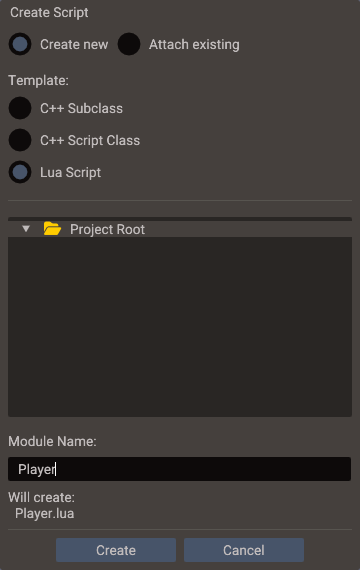
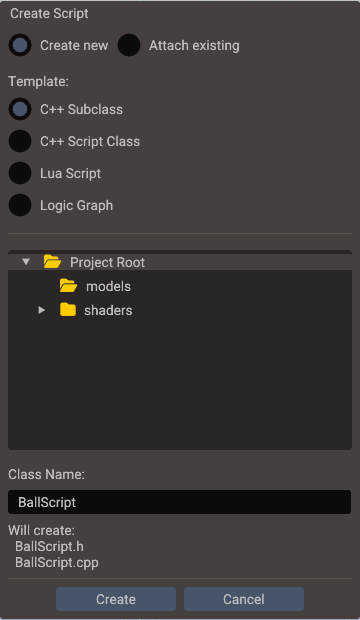
Docs follow the logic graph attach flow and review notes

diff --git a/docs/editor/logic-graphs.md b/docs/editor/logic-graphs.md
@@ -14,26 +14,27 @@ engine, Play and an export run the Lua, exactly as if it had been written by han
 
 ## Making one
 
-- On an entity, **New script** in [Properties](properties.md) with the **Logic Graph**
+- On an entity, **New Script** in [Properties](properties.md) with the **Logic Graph**
   template writes a graph, attaches it and opens it.
 - In [Resources](resources.md), **New** → **Logic Graph** writes one in the current
   folder. It starts with **On Start** and **On Update**.
 - An agent creates one with `edit_graph` and `create`, see [From agents](#from-agents).
 
 A graph lives inside the project's Lua directory. Its file name is the script's name, so
-it starts with a letter and has only letters, digits and `_`. A graph named as an engine
+it starts with a letter, has only letters, digits and `_`, and is not a word of Lua such
+as `end` or `local`. A graph named as an engine
 class, `Camera.logic`, is fine: its script's table is then `CameraScript`.
 
 ## Giving it to an entity
 
 A graph goes where a Lua script does:
 
-- **New script** → **Attach existing** → **Browse Script...** takes a `.logic`.
+- **New Script** → **Attach existing** → **Browse Script...** takes a `.logic`.
 - In a **Script** component, **+ Add Script** → **Logic Graph** asks for the file, and the
   **Source File** of a Lua script row takes a `.logic` too.
 
 The row's source button opens the graph, and its variables show below it as the script's
-properties.
+properties. Renaming or moving a graph in Resources carries the entities that use it.
 
 ## How a graph runs
 
@@ -71,7 +72,7 @@ properties.
 | Self | The script's entity, its scene, and the entity as an engine class such as `Mesh` |
 | Input | **Key**, the keyboard keys by name |
 | Utility | **Print**, **Lua Expression**, **Lua Code**, **Call Method** |
-| Engine | A category for each class of the [Lua API](../reference/index.md): a node for each method, and a **Get** and a **Set** for each property. Methods that only read, such as **Get World Position** or **Is Key Pressed**, are values; the others run |
+| Engine | A category for each class of the [Lua API](../reference/index.md): a node for each method, a **Get** for each property and a **Set** for the ones scripts can write. Methods that only read, such as **Get World Position** or **Is Key Pressed**, are values; the others run |
 | Enums | One node for each enum, with its value as a setting |
 
 Right click the canvas, or press **+ Node**, and type: the search matches every word in
@@ -108,9 +109,9 @@ The [MCP server](mcp-server.md) and the AI Chat use the graph tools of shader gr
 | --- | --- |
 | `list_graph_node_types` | With `graph_type` `script`, lists the graph's own nodes and the engine classes; `search` or a class as `category` returns their nodes in full |
 | `read_graph` | Reads a `.logic`: variables, nodes, links, whether it compiles and, with `include_code`, the Lua |
-| `edit_graph` | Changes it in one step, or creates it with `create`. Nodes added without a position are laid out, one row for each event. The result gives the path and class name `attach_script` takes: the graph itself |
+| `edit_graph` | Changes it in one step, or creates it with `create`. Nodes added without a position are laid out, one row for each event. The path of a new graph is inside the project's Lua directory. The result gives the path and class name `attach_script` takes, with type `lua`: the graph itself |
 
 ## Command line
 
-`doriax-editor logic <file.logic> --out <file.lua>` writes a graph's script to a file of
-your choice, and `doriax-editor logic-nodes` prints the node types as JSON.
+`doriax-editor logic <file.logic>` prints a graph's script, and `--out <file.lua>` writes
+it to a file of your choice, and `doriax-editor logic-nodes` prints the node types as JSON.

diff --git a/docs/manual/creating-scripts.md b/docs/manual/creating-scripts.md
@@ -40,31 +40,33 @@ exist and you only need a new entry pointing at them.
 1. Select an entity in the **Structure** panel.
 2. Click **New Script** at the top of the **Properties** window (next to
    **New component**).
-3. Choose **Lua Script**, **C++ Subclass**, or **C++ Script Class**.
+3. Choose **C++ Subclass**, **C++ Script Class**, **Lua Script** or **Logic Graph**.
 4. Enter a class/module name and confirm.
 
 The editor then does everything in one undoable step:
 
 - writes template files into your project (header + source for C++, a single `.lua`
-  module for Lua) with example properties and event registration already in place,
+  module for Lua, a `.logic` [logic graph](../editor/logic-graphs.md) that opens in the
+  graph window) with example properties and event registration already in place,
 - adds a `ScriptComponent` to the entity if it does not have one,
 - appends an enabled script entry linked to the new files.
 
 ![The Create Script dialog](../assets/screenshots/script-create-dialog.png)
 
 The same dialog's **Attach existing** option links a script that already exists: browse
-to the `.lua` file (or the C++ header and source) and click **Attach**. The files are
-not changed.
+to the `.lua` file, the `.logic` graph (or the C++ header and source) and click
+**Attach**. The files are not changed.
 
 ### Flow B — Add Script (links existing files)
 
 1. Select the entity and add `ScriptComponent` through **New component** (skip if it
    already has one).
-2. In the **ScriptComponent** section, click **Add Script**. This creates an *empty*
-   script entry — no files are written.
+2. In the **ScriptComponent** section, click **Add Script** and choose **Lua Script** or
+   **C++ Script**. This creates an *empty* script entry — no files are written.
+   **Logic Graph** asks for a `.logic` file at once and adds an entry that runs it.
 3. Click the pencil button on the new entry to open **Edit Script Details** and set the
-   class name, then pick the **Header File** and **Source File** (or the `.lua` file for
-   Lua scripts) from your project.
+   class name, then pick the **Header File** and **Source File** (or the `.lua` file, or a
+   `.logic` graph, for Lua scripts) from your project.
 
 Use this flow to reuse one script across many entities, or to wire up files you wrote
 outside the editor.
@@ -88,6 +90,7 @@ another. All edits are undoable.
 | Type | Enum value | Generated base | Best use |
 | --- | --- | --- | --- |
 | Lua Script | `SCRIPT_LUA` | Lua table module | Fast iteration, UI glue, triggers, controllers |
+| Logic Graph | `SCRIPT_LUA` | A [logic graph](../editor/logic-graphs.md), run as the Lua the editor writes from it | Behavior built from nodes, without writing code |
 | C++ Subclass | `SUBCLASS` | The wrapper class matching the entity (`Mesh`, `Camera`, `Terrain`, `Button`, …) | Behavior that calls wrapper methods like `getPosition()` |
 | C++ Script Class | `SCRIPT_CLASS` | `ScriptBase` | Logic that accesses scene/entity explicitly without a wrapper |
 

diff --git a/docs/editor/properties.md b/docs/editor/properties.md
@@ -466,13 +466,15 @@ Each mesh can still opt out with **Detail Levels** on the Mesh component.
 
 Two buttons at the top of the Properties window create scripts:
 
-- **New Script** — opens a dialog that generates the script files (Lua module, or C++
-  header + source), adds a `ScriptComponent` if the entity lacks one, and links an
-  enabled entry to the new files — all in one undoable step. Its **Attach existing**
-  option links script files that already exist instead, without changing them.
+- **New Script** — opens a dialog that generates the script files (Lua module, C++
+  header + source, or a [logic graph](logic-graphs.md)), adds a `ScriptComponent` if the
+  entity lacks one, and links an enabled entry to the new files — all in one undoable
+  step. Its **Attach existing** option links script files or a `.logic` graph that
+  already exist instead, without changing them.
 - **New component → Script**, then **Add Script** inside the component — adds
-  an *empty* script entry without creating files. Use the entry's pencil button to set
-  the class name and link existing header/source (or `.lua`) files.
+  an *empty* Lua or C++ script entry without creating files, or with **Logic Graph** an
+  entry for a `.logic` file you pick. Use the entry's pencil button to set the class name
+  and link existing header/source (or `.lua` or `.logic`) files.
 
 Each script entry shows an enable checkbox, buttons to open its files in the Code
 Editor, and a right-click menu to reorder or remove it.

diff --git a/docs/editor/command-line.md b/docs/editor/command-line.md
@@ -201,6 +201,14 @@ doriax-editor shaders --out ./shaders --shader mesh:Uv1,Nor --backend opengles
 | `--shader <spec>` | **Required.** Shader(s) to generate. Repeatable (see [Shader specs](#shader-specs)). |
 | `-h`, `--help` | Show usage for this subcommand. |
 
+## Graph commands
+
+| Command | Does |
+| --- | --- |
+| `doriax-editor shader-nodes` | Prints every [shader graph](shader-graphs.md) node type as JSON |
+| `doriax-editor logic-nodes` | Prints every [logic graph](logic-graphs.md) node type as JSON; `--check` compiles a graph around each one instead and prints the ones that fail |
+| `doriax-editor logic <file.logic>` | Prints the Lua script of a logic graph; `--out <file.lua>` writes it to a file |
+
 ## Graphic backends
 
 A shader is compiled for a **graphics API**, not for an operating system — a Windows build

diff --git a/docs/editor/resources.md b/docs/editor/resources.md
@@ -191,7 +191,7 @@ extension is optional.
 | **C++ Source** | An empty `.cpp` file |
 | **C++ Header** | A `.h` file starting with `#pragma once` |
 | **Shader** → a type | A [shader file](../manual/shader-files.md) (`.glsl`) of that type (Mesh, UI, Points, Lines, Sky, Water, Post-process), with an example to start from |
-| **Shader Graph** → a type | A [shader graph](shader-graphs.md) (`.shader`) of that type, holding only its output node |
+| **Shader Graph** → a type | A [shader graph](shader-graphs.md) (`.shader`) of that type, holding only its output node; **Function** writes a [function](shader-graphs.md#functions) other graphs call |
 
 New files are not attached to any entity; give a shader to a material or component on its
 [Shader row](custom-shaders.md#the-shader-row). Load a Lua module from other scripts with

diff --git a/docs/editor/shader-graphs.md b/docs/editor/shader-graphs.md
@@ -61,8 +61,9 @@ unsaved edits.
 | Copy, cut, paste, duplicate | Ctrl+C, Ctrl+X, Ctrl+V at the mouse, Ctrl+D |
 | Undo, redo | Ctrl+Z, Ctrl+Y or Ctrl+Shift+Z, or the Edit menu. Each gesture or typed value is one step |
 
-A link joins only types that convert: numbers into each other, a texture into its own
-type, a bool into a bool, and never back into a node that feeds the link. Pins are colored
+A link joins only types that convert: a number into a number or a vector, a vector into
+one of its size or a shorter one (into a single number, split it first), a texture into
+its own type, a bool into a bool, and never back into a node that feeds the link. Pins are colored
 by type. Positions snap to a grid of 10.
 
 The node search matches names, categories and ids as you type, and Enter takes the first

diff --git a/docs/editor/index.md b/docs/editor/index.md
@@ -41,8 +41,8 @@ The editor window is divided into a set of resizable panels:
 
 ![The View menu toggles each panel](../assets/screenshots/menu-view.png)
 
-**Save** writes the one thing you were last working on — the focused script, or the
-selected scene. **Save All** writes every changed scene and script *and* `project.yaml`,
+**Save** writes the one thing you were last working on — the focused script or graph, or
+the selected scene. **Save All** writes every changed scene and script *and* `project.yaml`,
 which is how settings changes are committed to disk. On a project that has never been
 saved, both ask where the project should live first.
 

diff --git a/docs/manual/shader-files.md b/docs/manual/shader-files.md
@@ -351,7 +351,8 @@ draw; it never rebuilds a shader.
 ```
 
 The default is `white`, `black` or `normal`, the filter `nearest`, `linear` or
-`trilinear`, and the wrap `repeat`, `clamp` or `mirror`. The code reads the texture by
+`trilinear` (which builds the texture's mipmaps), and the wrap `repeat`, `clamp` or
+`mirror`. The code reads the texture by
 its name, as GLSL does: `texture(detail, uv)`, `textureLod(detail, uv, 0.0)`. Helpers of
 your own take it as `detail_texture` and `detail_sampler`, the two halves the name stands
 for, so the name cannot be a word the file uses otherwise. A texture is bound in every

diff --git a/docs/editor/custom-shaders.md b/docs/editor/custom-shaders.md
@@ -185,7 +185,7 @@ section of its properties.
 Every change is undoable, and the chain is saved with the scene. An agent connected
 through the [MCP server](mcp-server.md), or the AI Chat, edits the same chain:
 `list_post_process_passes` reads it and `set_post_process_pass` adds, removes, moves,
-enables or repoints a pass.
+enables or repoints a pass, and sets its textures.
 
 The chain runs on the scene's **active camera**, after the opaque, transparent, UI and SSR
 passes, and before the fixed-resolution upscale. Secondary cameras (minimaps, mirrors,
